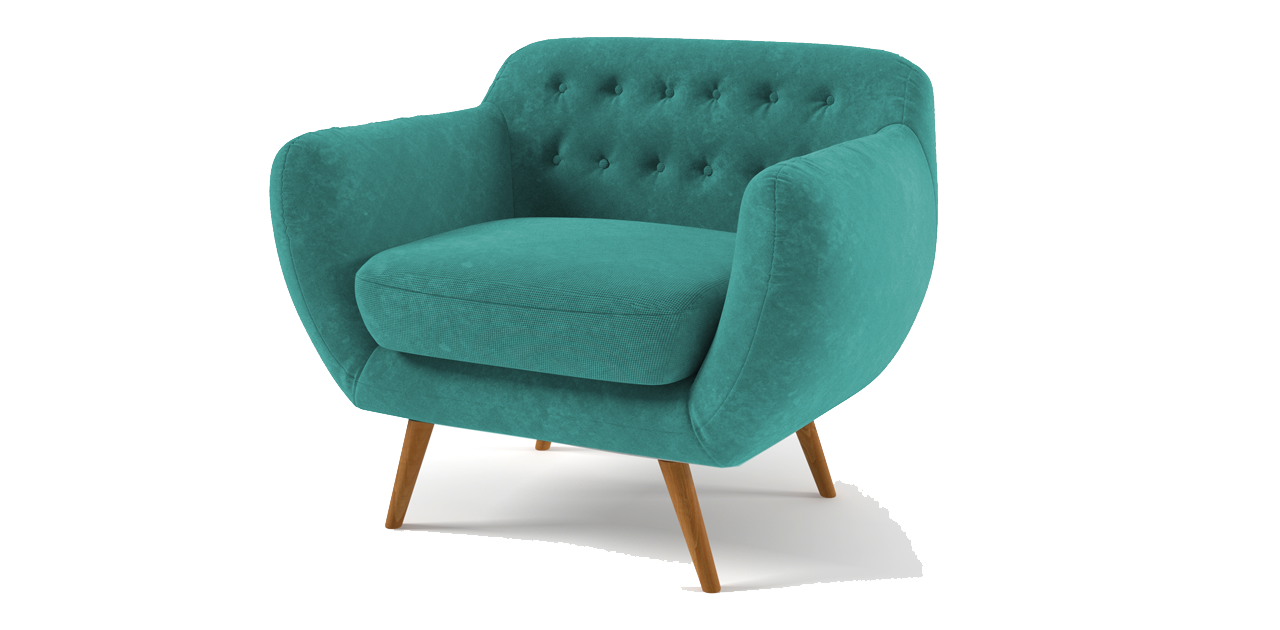
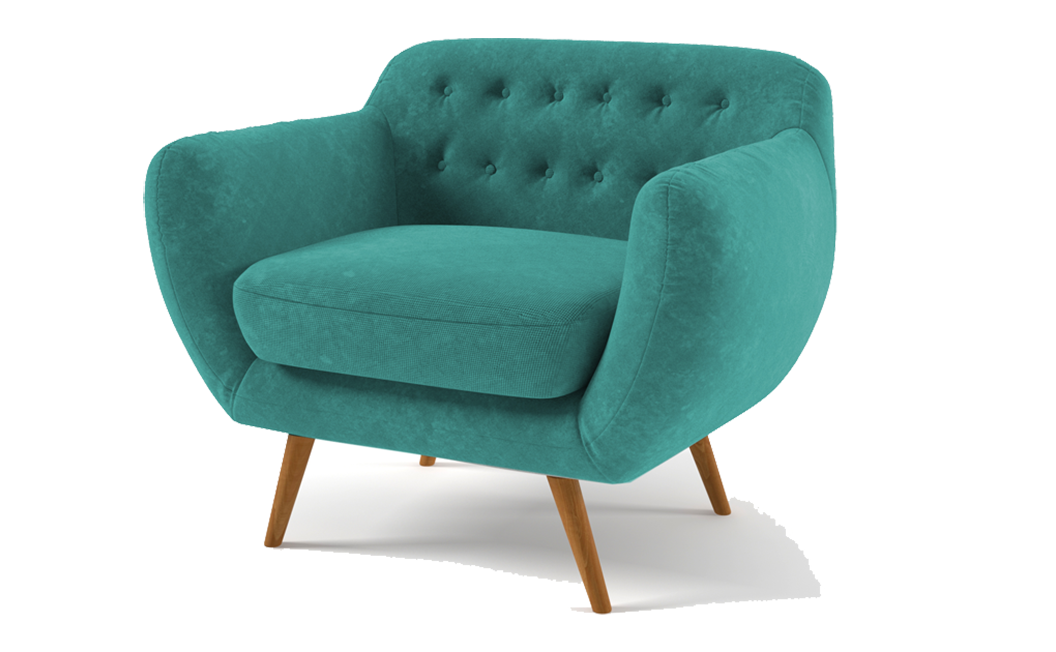
update styel
-menambahkan section about
-menambahkan sectiont product
-memperbaiki tampilan pada galery

diff --git a/index.html b/index.html
@@ -83,32 +83,32 @@
               <button type="button" data-bs-target="#carouselExampleCaptions" data-bs-slide-to="3" aria-label="Slide 4"></button>
             </div>
             <div class="carousel-inner">
-              <div class="carousel-item active pembungkus-img">
-                <img src="img/chair-1.png" class="d-block w-80 wrap-img" alt="...">
+              <div class="p-5 carousel-item active pembungkus-img">
+                <img src="img/chair-1.png" class="d-block w-100 wrap-img" alt="...">
                 <div class="carousel-caption d-none d-md-block text-black">
-                  <h5>First slide label</h5>
-                  <p>Some representative placeholder content for the first slide.</p>
+                  <h5>Relax Type</h5>
+                  <p>Buat rumah anda lebih cerah dengan kursi ini. Nikmati kesempatan berkumpul dengan keluarga anda.</p>
+                </div>
+              </div>
+              <div class="p-5 carousel-item pembungkus-img">
+                <img src="img/chair-2.png" class="d-block w-100 wrap-img" alt="...">
+                <div class="carousel-caption d-none d-md-block text-black">
+                  <h5>Elegant Type</h5>
+                  <p>Dengan warna yang kontras dan cerah memberikan tampak kesederhanaan dan kebersihan pada ruangan anda.</p>
+                </div>
+              </div>
+              <div class="p-5 carousel-item pembungkus-img">
+                <img src="img/chair-3.png" class="d-block w-100 wrap-img" alt="...">
+                <div class="carousel-caption d-none d-md-block text-black">
+                  <h5>Minimalis Type</h5>
+                  <p>Koleksi terbatas yang minimalis dan fungsional, memungkinkan anda menggunakannya dimana saja.</p>
                 </div>
               </div>
               <div class="carousel-item pembungkus-img">
-                <img src="img/chair-2.png" class="d-block w-80 wrap-img" alt="...">
+                <img src="img/chair-4.png" class="d-block w-100 wrap-img" alt="...">
                 <div class="carousel-caption d-none d-md-block text-black">
-                  <h5>Second slide label</h5>
-                  <p>Some representative placeholder content for the second slide.</p>
-                </div>
-              </div>
-              <div class="carousel-item pembungkus-img">
-                <img src="img/chair-3.png" class="d-block w-80 wrap-img" alt="...">
-                <div class="carousel-caption d-none d-md-block text-black">
-                  <h5>Third slide label</h5>
-                  <p>Some representative placeholder content for the third slide.</p>
-                </div>
-              </div>
-              <div class="carousel-item pembungkus-img">
-                <img src="img/chair-4.png" class="d-block w-80 wrap-img" alt="...">
-                <div class="carousel-caption d-none d-md-block text-black">
-                  <h5>Third slide label</h5>
-                  <p>Some representative placeholder content for the third slide.</p>
+                  <h5>Family Time</h5>
+                  <p>Miliki semua kebutuhan anda yang dapat di gunakan dimana saja dan tahan dipergunakan setiap hari.</p>
                 </div>
               </div>
             </div>
@@ -121,6 +121,101 @@
               <span class="visually-hidden">Next</span>
             </button>
           </div>
+    </section>
+
+    <section id="about">
+      <div class="container-about">
+        <div class="about-wrapper">
+          <div class="kontent">
+            <div class="kontent-text">
+              <h1>About Us</h1>
+              <p>Lorem ipsum dolor sit amet consectetur adipisicing elit. Maxime adipisci ipsum eius nihil mollitia optio nam non dolorum vel. Molestias in architecto modi vero, obcaecati commodi saepe ullam accusantium ratione!
+              Alias iste asperiores, veritatis consequatur non ducimus doloribus repellendus magnam explicabo velit voluptatibus quo maiores dolore vitae quisquam hic deleniti minima placeat ad exercitationem similique cumque doloremque laborum! Suscipit, rerum?</p>
+            </div>
+            <div class="kontent-img">
+              <img src="img/Furniture-2.jpg">
+            </div>
+            <div class="kontent-img layer-2">
+              <img src="img/Furniture-1.jpeg">
+            </div>
+          </div>
+        </div>
+      </div>
+    </section>
+
+
+    <section id="product">
+      <div class="container-product">
+        <div class="box-product">
+          <div class="wrapper-product">
+            <h1>More Product</h1>
+          </div>
+          <div class="col-product">
+          <div class="card" style="width: 18rem;">
+            <img src="img/chair-1.png" class="card-img-top" alt="...">
+            <div class="card-body">
+              <h5 class="card-title">Card title</h5>
+              <p>
+                <i class="fa-solid fa-star" style="color: #FFD43B;"></i>
+                <i class="fa-solid fa-star" style="color: #FFD43B;"></i>
+                <i class="fa-solid fa-star" style="color: #FFD43B;"></i>
+                <i class="fa-solid fa-star" style="color: #FFD43B;"></i>
+                <i class="fa-solid fa-star" style="color: #FFD43B;"></i>
+              </p>
+              <p><strong>Rp </strong>2.500</p>
+              <p class="card-text">Some quick example text to build on the card title and make up the bulk of the card's content.</p>
+              <a href="#" class="btn warna-btn">Buy</a>
+            </div>
+          </div>
+          <div class="card" style="width: 18rem;">
+            <img src="img/chair-2.png" class="card-img-top" alt="...">
+            <div class="card-body">
+              <h5 class="card-title">Card title</h5>
+              <p>
+                <i class="fa-solid fa-star" style="color: #FFD43B;"></i>
+                <i class="fa-solid fa-star" style="color: #FFD43B;"></i>
+                <i class="fa-solid fa-star" style="color: #FFD43B;"></i>
+                <i class="fa-solid fa-star" style="color: #FFD43B;"></i>
+              </p>
+              <p><strong>Rp </strong>2.500</p>
+              <p class="card-text">Some quick example text to build on the card title and make up the bulk of the card's content.</p>
+              <a href="#" class="btn warna-btn">Buy</a>
+            </div>
+          </div>
+          <div class="card" style="width: 18rem;">
+            <img src="img/chair-3.png" class="card-img-top">
+            <div class="card-body">
+              <h5 class="card-title">Card title</h5>
+              <p>
+                <i class="fa-solid fa-star" style="color: #FFD43B;"></i>
+                <i class="fa-solid fa-star" style="color: #FFD43B;"></i>
+                <i class="fa-solid fa-star" style="color: #FFD43B;"></i>
+                <i class="fa-solid fa-star" style="color: #FFD43B;"></i>
+                <i class="fa-solid fa-star" style="color: #FFD43B;"></i>
+              </p>
+              <p><strong>Rp </strong>2.500</p>
+              <p class="card-text">Some quick example text to build on the card title and make up the bulk of the card's content.</p>
+              <a href="#" class="btn warna-btn">Buy</a>
+            </div>
+          </div>
+          <div class="card" style="width: 18rem;">
+            <img src="img/chair-4.png" class="card-img-top" alt="...">
+            <div class="card-body">
+              <h5 class="card-title">Card title</h5>
+              <p>
+                <i class="fa-solid fa-star" style="color: #FFD43B;"></i>
+                <i class="fa-solid fa-star" style="color: #FFD43B;"></i>
+                <i class="fa-solid fa-star" style="color: #FFD43B;"></i>
+              </p>
+              <p><strong>Rp </strong>2.500</p>
+              <p class="card-text">Some quick example text to build on the card title and make up the bulk of the card's content.</p>
+              <a href="#" class="btn warna-btn">Buy</a>
+            </div>
+          </div>
+          
+          </div>
+        </div>
+      </div>
     </section>
     <!-- Bootstrap -->
     <script src="https://cdn.jsdelivr.net/npm/bootstrap@5.3.2/dist/js/bootstrap.bundle.min.js" integrity="sha384-C6RzsynM9kWDrMNeT87bh95OGNyZPhcTNXj1NW7RuBCsyN/o0jlpcV8Qyq46cDfL" crossorigin="anonymous"></script>

diff --git a/styel.css b/styel.css
@@ -79,6 +79,9 @@ nav .buy{
     border: 1px solid #bd4d02;
     font-weight: bold;
 }
+.buy >p{
+    margin: 0;
+}
 nav .buy:hover{
     background: #fff;
     color: #3a2517;
@@ -318,8 +321,138 @@ nav .buy:hover{
 }
 .wrap-img{
     width: 100%;
-    height: 100%;
+    height: 80%;
     object-fit: contain;
 }
 
 /* ---------- End Carousal ---------- */
+
+
+
+
+
+
+
+
+
+
+/* ---------- About ---------- */
+
+.container-about{
+    background: #a05f2a;
+    width: 100%;
+    height: 400px;
+    display: flex;
+    justify-content: center;
+    align-items: center;
+    color: #fff;
+    margin: 50px 0;
+}
+
+.about-wrapper{
+    /* background: #bbb; */
+    width: 70%;
+}
+.kontent{
+    /* background: #aaa; */
+    display: flex;
+    position: relative;
+    gap: 50px;
+}
+.kontent-text{
+    /* background: #999; */
+    width: 50%;
+}
+.kontent-img{
+    width: 50%;
+    height: 300px;
+}
+.kontent-img>img{
+    width: 100%;
+    height: 100%;
+    object-fit: cover;
+    border-radius: 35px;
+    border: 3px solid #ccc;
+}
+.layer-2{
+    position: absolute;
+    right: -50px;
+    top: -120px;
+    width: 200px;
+    height: 200px;
+    border-radius: 35px;
+}
+
+@media (max-width:768px){
+    .about-wrapper{
+        width: 95%;
+        position: relative;
+        top: 300px;
+    }
+    .kontent{
+        flex-direction: column;
+    }
+    .kontent-text{
+        width: 100%;
+        margin-bottom: 50px;
+    }
+    .kontent-img{
+        width: 100%;
+    }
+    .layer-2{
+        position: relative;
+        width: 50%;
+        top: -430px;
+        left: 25%;
+        right: 0;
+    }
+}
+/* ---------- End About ---------- */
+
+
+
+
+
+
+
+
+
+
+/* ---------- Product ---------- */
+
+.container-product{
+    /* background: #ccc; */
+    width: 100%;
+    margin: 50px 0;
+    padding: 10px 0;
+    display: flex;
+    justify-content: center;
+}
+.box-product{
+    /* background: red; */
+    width: 80%;
+}
+.wrapper-product{
+    background: #a05f2a;
+    width: 100%;
+    margin: 50px 0;
+    padding: 10px 0;
+    color: #fff;
+    display: flex;
+    justify-content: center;
+}
+.col-product{
+    width: 100%;
+    display: flex;
+    justify-content: center;
+    gap: 10px;
+}
+.warna-btn{
+    background: #a05f2a;
+    color: #fff;
+    width: 90%;
+}
+.warna-btn:hover{
+    border: 1px solid #a05f2a;
+}
+/* ---------- End Product ---------- */
